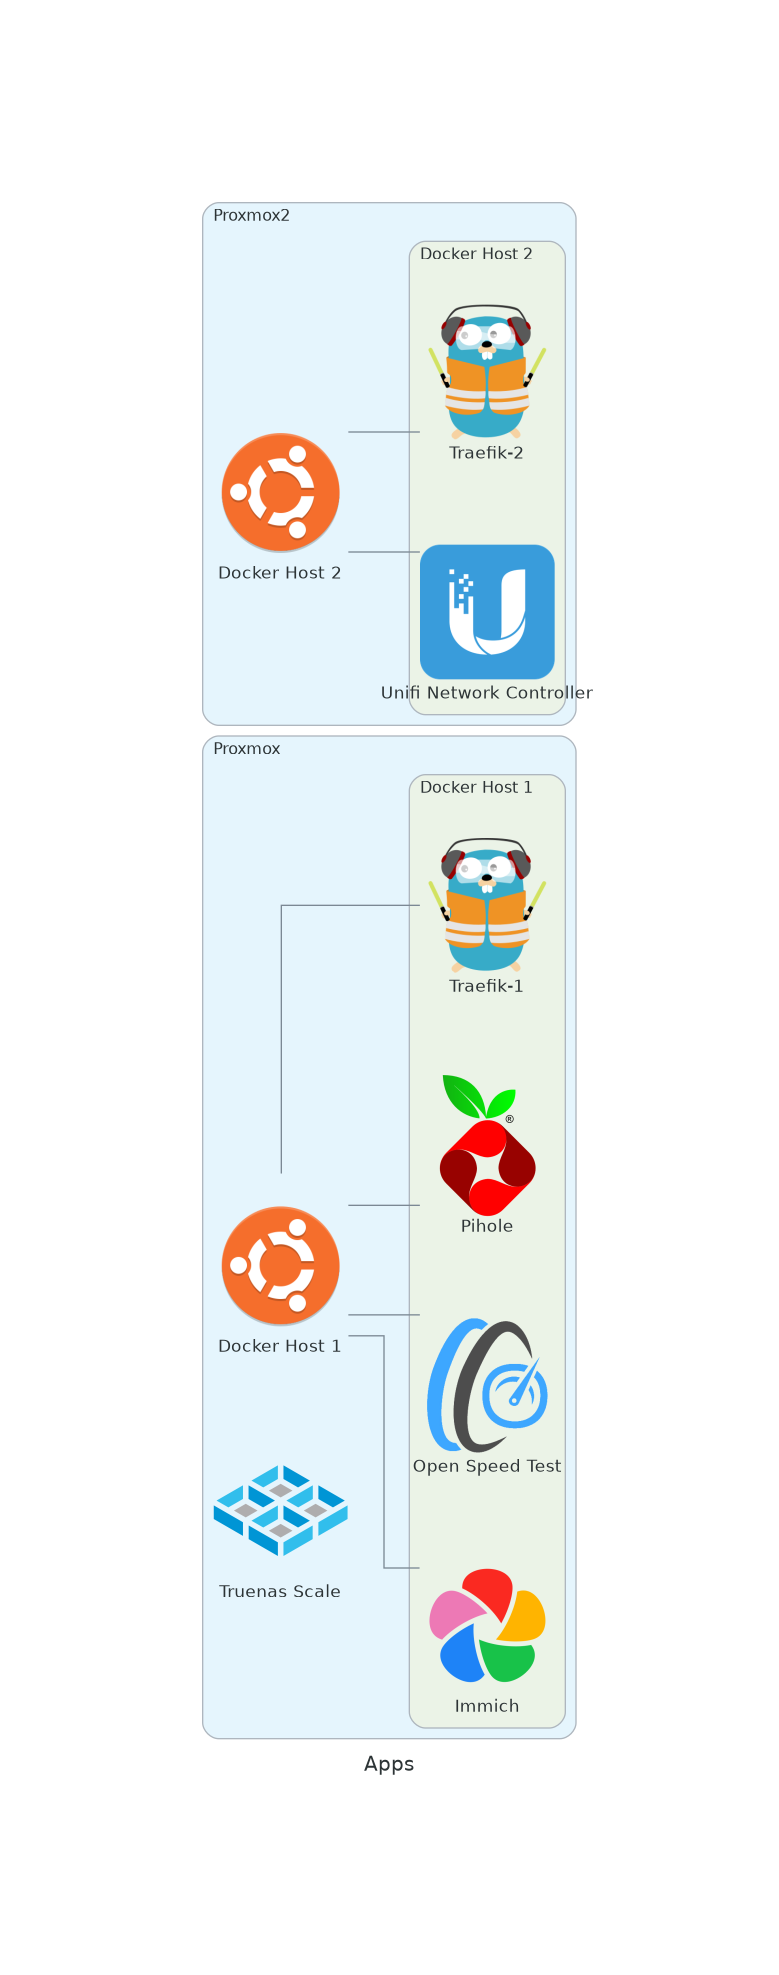
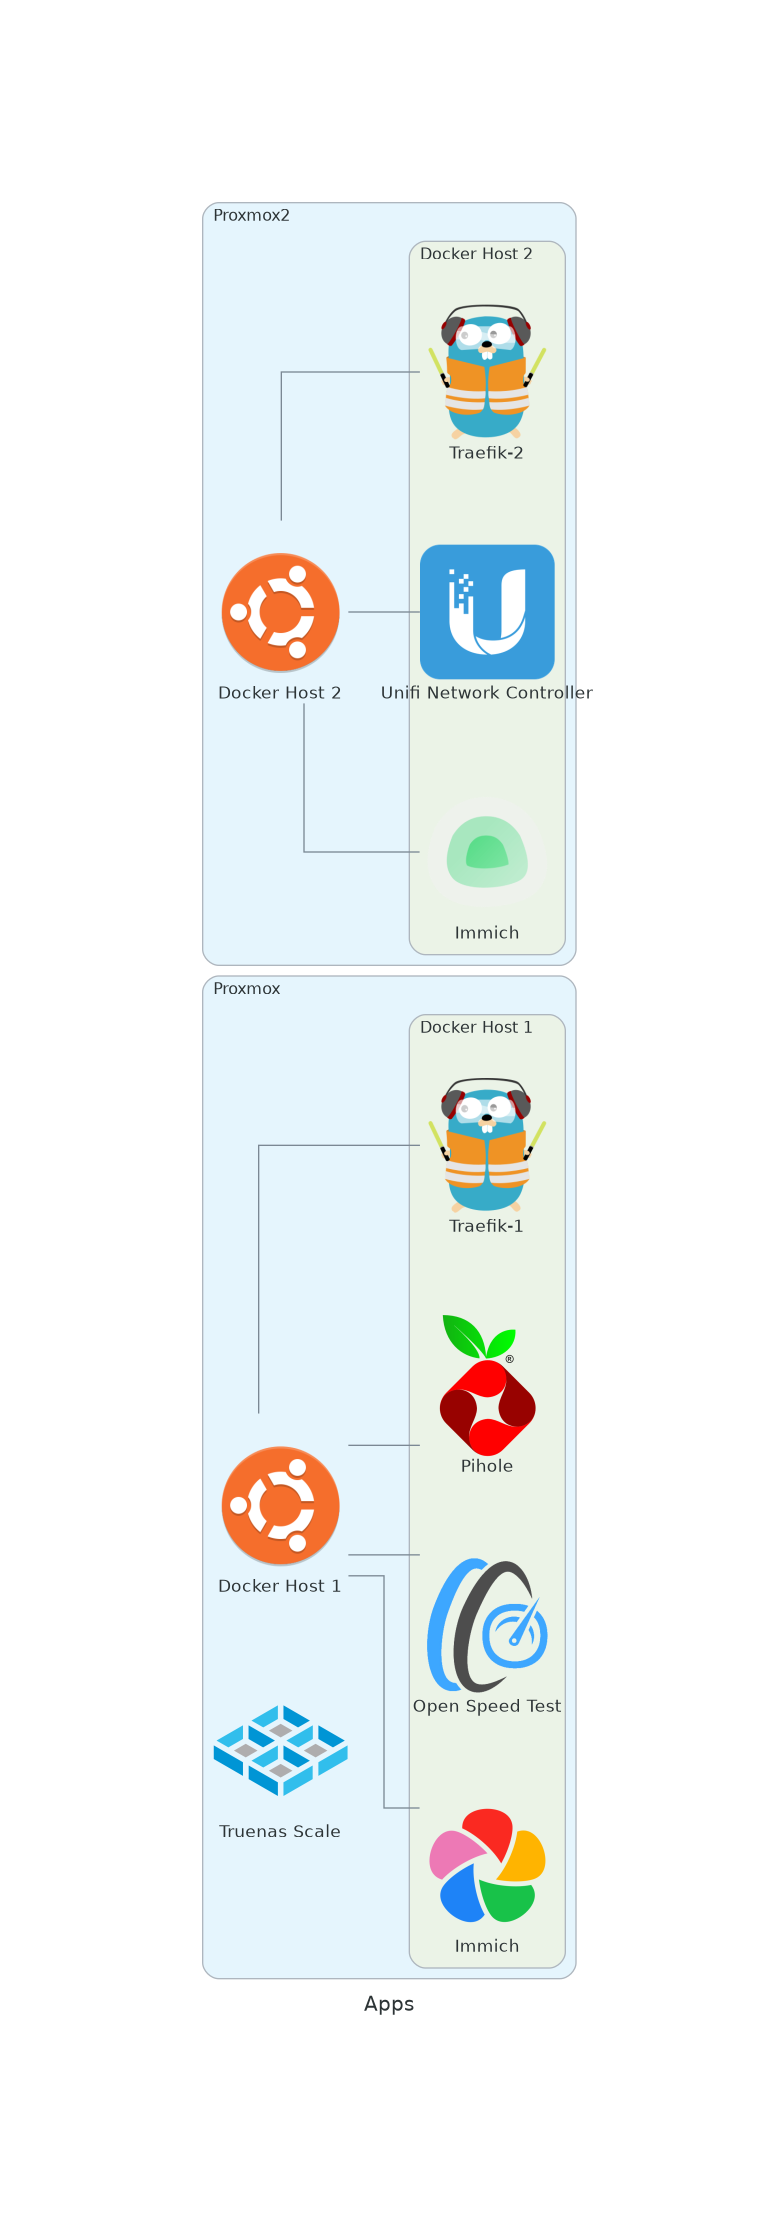
added uptime kuma

diff --git a/src/homelab.py b/src/homelab.py
@@ -40,8 +40,9 @@ with Diagram("Apps", show=False, graph_attr=graph_attr):
     with Cluster("Proxmox2"):
         with Cluster("Docker Host 2"): 
             unifi =  Custom ("Unifi Network Controller", "img/unifi.png")
+            uptimekuma = Custom ("Immich", "img/uptimekuma.png")
             traefik2 = Traefik("Traefik-2")
-            dockerhost2 = [traefik2, unifi]
+            dockerhost2 = [traefik2, unifi, uptimekuma]
         Ubuntu("Docker Host 2") - dockerhost2
 
 with Diagram("Homelab", show=False, graph_attr=graph_attr):
@@ -66,8 +67,9 @@ with Diagram("Homelab", show=False, graph_attr=graph_attr):
             with Cluster("Proxmox2"):
                 with Cluster("Docker Host 2"): 
                     unifi =  Custom ("Unifi Network Controller", "img/unifi.png")
+                    uptimekuma = Custom ("Immich", "img/uptimekuma.png")
                     traefik2 = Traefik("Traefik-2")
-                    dockerhost2 = [traefik2, unifi]
+                    dockerhost2 = [traefik2, unifi, uptimekuma]
                 switch - Ubuntu("Docker Host 2") - dockerhost2
             [wan1,wan2] >> mikrotik >> switch >> ap
             
